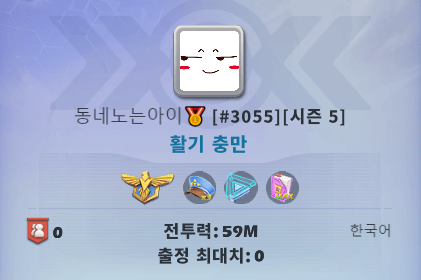
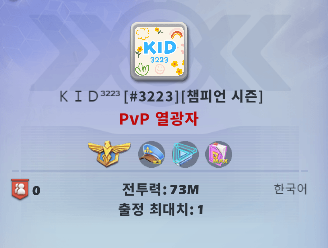
이미지 변경

diff --git a/topwar/src/components/screen/Developer.js b/topwar/src/components/screen/Developer.js
@@ -12,10 +12,11 @@ function Developer() {
             <div className="row mt-4">
                 <div className="col-sm-6">
                     <div className="card mb-3">
-                        <h3 className="card-header">동네노는아이</h3>
+                        <h3 className="card-header">KID³²²³</h3>
                         <div className="card-body">
                             <h5 className="card-title">탑워를 좋아하는 흔한 유저 중 하나</h5>
                             <h6 className="card-subtitle text-muted">주특기 - 시뮬레이션 만들기</h6>
+                            <a href="https://open.kakao.com/o/glCbXJVg" class="btn btn-link">이전 문의</a>
                         </div>
                         <img src={NameCard}/>
                         {/* <div className="card-body">
